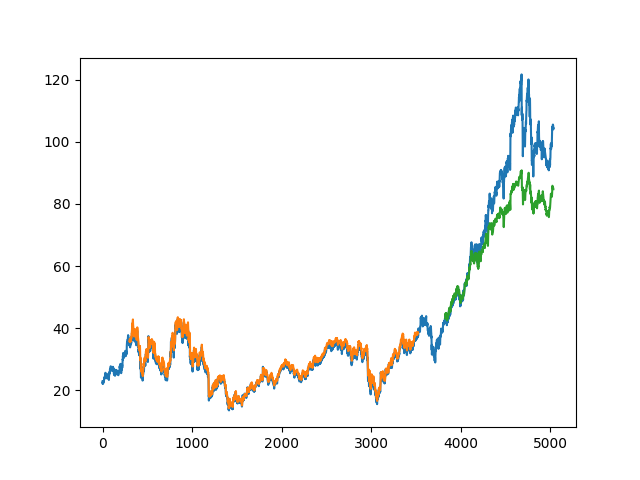
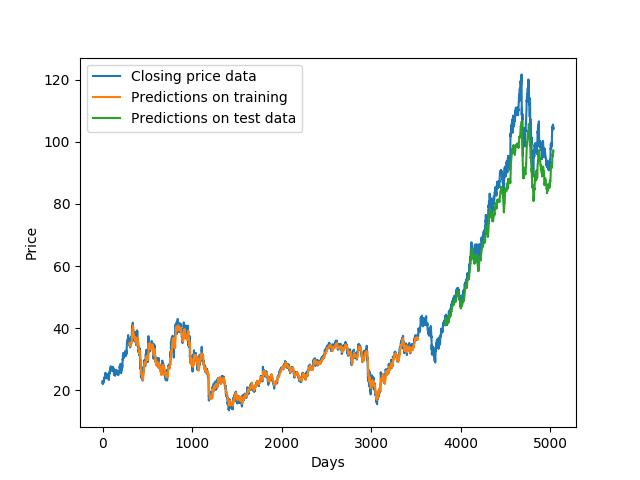
Code Refactored and readme added

diff --git a/deep_learning/LSTM/stock_prediction_lstm.py b/deep_learning/LSTM/stock_prediction_lstm.py
@@ -1,0 +1,146 @@
+import time
+import math
+
+import numpy as np
+import pandas as pd
+import matplotlib.pyplot as plt
+from keras.models import Sequential
+from keras.layers import Dense, LSTM
+from sklearn.preprocessing import MinMaxScaler
+from sklearn.metrics import mean_squared_error
+from keras.layers.core import Dense, Activation, Dropout
+
+scalar = None
+np.random.seed(5)
+
+def input_function(filename):
+    print("Reading the input data")
+    dataframe = pd.read_csv(filename, header=None, index_col=None, delimiter=',')
+    print(dataframe.shape)
+    return dataframe
+
+
+def apply_scalar(dataset, scalar):
+    print("Applying the MinMax Scalar")
+    dataset = scalar.fit_transform(dataset)
+    return dataset
+
+
+def pick_columns(dataframe, scalar):
+    print("Picking the close price column for training the model")
+    all_y = dataframe[4].values
+    dataset = all_y.reshape(-1, 1)
+    dataset = apply_scalar(dataset, scalar)
+    return dataset
+
+
+def split_dataset(dataset):
+    print("Splitting the dataset")
+    train_size = int(len(dataset) * 0.7)
+    test_size = len(dataset) - train_size
+    print(train_size, test_size)
+    train, test = dataset[0:train_size, :], dataset[train_size:len(dataset), :]
+    return train, test
+
+
+def create_lookback_dataset(data, look_back=1):
+    datax, datay = [], []
+    for i in range(len(data) - look_back - 1):
+        a = data[i:(i + look_back), 0]
+        datax.append(a)
+        datay.append(data[i + look_back, 0])
+    return np.array(datax), np.array(datay)
+
+
+def lstm_ready_dataset(dataset, look_back):
+    print("Making dataset LSTM ready")
+    train, test = split_dataset(dataset)
+    trainx, trainy = create_lookback_dataset(train, look_back)
+    testx, testy = create_lookback_dataset(test, look_back)
+    trainx = np.reshape(trainx, (trainx.shape[0], 1, trainx.shape[1]))  # batch size, no of features, loop_back
+    testx = np.reshape(testx, (testx.shape[0], 1, testx.shape[1]))
+    print(trainx.shape, trainy.shape, testx.shape, testy.shape)
+    return trainx, trainy, testx, testy
+
+
+def lstm_model(trainx, trainy, look_back):
+    print("Modelling using LSTM...")
+    model = Sequential()
+    model.add(LSTM(30, input_shape=(
+        1, look_back)))  # 30 lstm cells with 300 previous time steps and 1 feature (closing price)
+    model.add(Dropout(0.15))
+    model.add(Dense(1))
+    model.compile(loss='mse', optimizer='adam')
+    model.fit(trainx, trainy, epochs=100, batch_size=400, verbose=1)
+    return model
+
+
+def predictions(model, trainx, trainy, testx, testy):
+    print("Predicting output on train and test data...")
+    train_predict = model.predict(trainx)
+    test_predict = model.predict(testx)
+
+    train_predict = scalar.inverse_transform(train_predict)
+    trainy = scalar.inverse_transform([trainy])
+    test_predict = scalar.inverse_transform(test_predict)
+    testy = scalar.inverse_transform([testy])
+    print(train_predict.shape, test_predict.shape)
+    return train_predict, test_predict, trainy, testy
+
+
+def scoring(train_predict, test_predict, trainy, testy):
+    print("Scoring are as follows... ")
+    trainscore = math.sqrt(mean_squared_error(trainy[0], train_predict[:, 0]))
+    testscore = math.sqrt(mean_squared_error(testy[0], test_predict[:, 0]))
+    print("Train score %.2f RMSE" % (trainscore))
+    print("Test score %.2f RMSE" % (testscore))
+    return trainscore, testscore
+
+
+def show_results(dataset, testpredict):
+    print("Showing results...")
+    train_size = int(len(dataset) * 0.7)
+    print('test prices size:')
+    testprices = scalar.inverse_transform(dataset[train_size + look_back + 1:])
+    print(testprices.size)
+    print('test predictions size:')
+    print(testpredict.size)
+    df = pd.DataFrame(data={"prediction": np.around(list(testpredict.reshape(-1)), decimals=2),
+                            "test_price": np.around(list(testprices.reshape(-1)), decimals=2)})
+    print(df)
+
+
+def show_plots(dataset, trainpredict, testpredict, look_back):
+    print("Plotting the data...")
+    # shift train predictions for plotting
+    trainPredictPlot = np.empty_like(dataset)
+    trainPredictPlot[:, :] = np.nan
+    trainPredictPlot[look_back:len(trainpredict) + look_back, :] = trainpredict
+
+    # shift test predictions for plotting
+    testPredictPlot = np.empty_like(dataset)
+    testPredictPlot[:, :] = np.nan
+    testPredictPlot[len(trainpredict) + (look_back * 2) + 1:len(dataset) - 1, :] = testpredict
+
+    # plot baseline and predictions
+    plt.plot(scalar.inverse_transform(dataset), label='Closing price data')
+    plt.plot(trainPredictPlot, label='Predictions on training')
+    plt.plot(testPredictPlot, label='Predictions on test data')
+    plt.xlabel("Days")
+    plt.ylabel("Price")
+    plt.legend()
+    plt.show()
+
+
+if __name__ == '__main__':
+    look_back = 300
+    ip_file = 'training.csv'
+    scalar = MinMaxScaler(feature_range=(0, 1))
+    dataframe = input_function(ip_file)
+    dataset = pick_columns(dataframe, scalar)
+    trainx, trainy, testx, testy = lstm_ready_dataset(dataset, look_back)
+    model = lstm_model(trainx, trainy, look_back)
+    train_predict, test_predict, trainy, testy = predictions(model, trainx, trainy, testx, testy)
+    trainscore, testscore = scoring(train_predict, test_predict, trainy, testy)
+    show_results(dataset, test_predict)
+    show_plots(dataset, train_predict, test_predict, look_back)

diff --git a/deep_learning/LSTM/readme.md b/deep_learning/LSTM/readme.md
@@ -1,0 +1,18 @@
+## Stock Prediction Project
+This project covers the basics of LSTM modelling which here is used for predicting the closing price of a stock by
+looking at the previous data gathered for the stock.
+
+The LSTM model looks at the closing prices of "N" previous days to predict the closing price of next day and so on.
+
+1. `stock_prediction.py` - The file user can execute to feed in the dataset, train the model and get the required output
+2. `Figure_1.png` - The plot which can be used to compare the actual closing price and the predicted closing price on
+the validation data
+3. `training.csv` - The dataset used for training. The columns are in following order: 
+    
+    1. Date 
+    2. Day open
+    3. Day high
+    4. Day low
+    5. Day close
+    6. Day last
+    7. Total trade quantity
